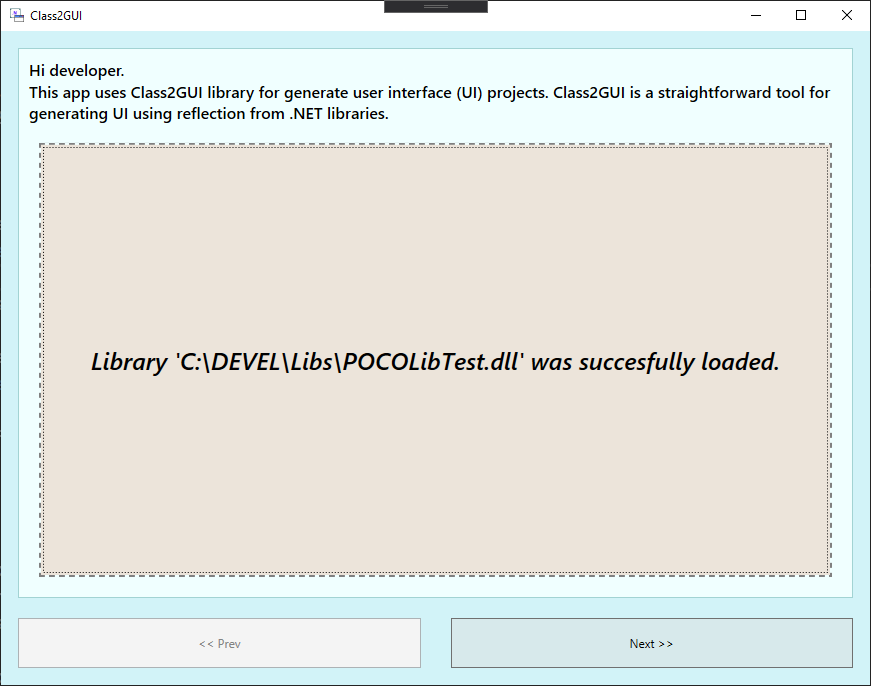
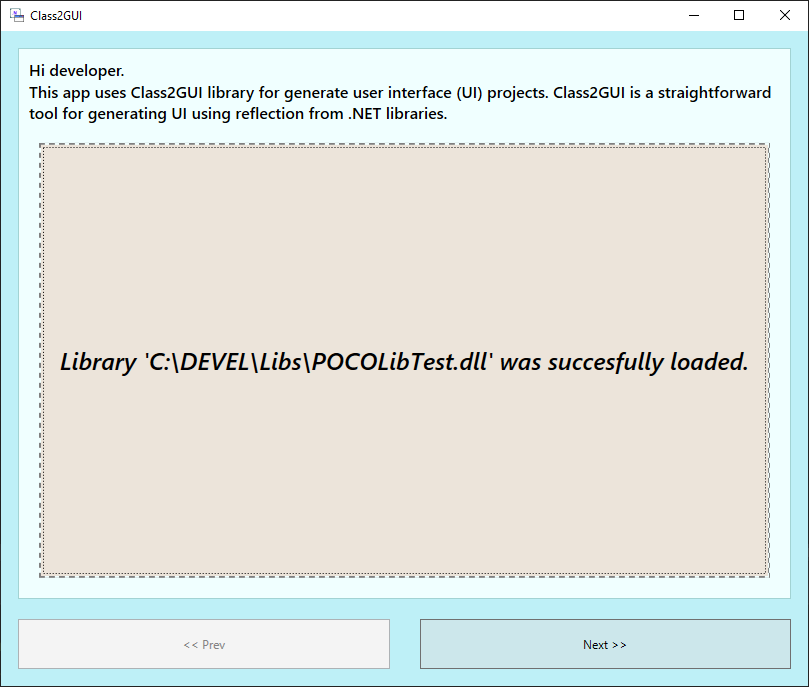
Update screenshots

diff --git a/Class2GUIApp/View/LoadClassUserControl.xaml b/Class2GUIApp/View/LoadClassUserControl.xaml
@@ -56,12 +56,13 @@
                     Background="#77DDDDDD"
                     BorderThickness="0"
                     Click="BtnLoadDll_Click"
-                    Content="{Binding InfoText}"
                     Cursor="Hand"
                     DockPanel.Dock="Bottom"
                     FontSize="24"
                     FontStyle="Italic"
-                    FontWeight="SemiBold" />
+                    FontWeight="SemiBold">
+                    <TextBlock Text="{Binding InfoText}" TextWrapping="Wrap" />
+                </Button>
             </DockPanel>
         </Border>
     </DockPanel>

diff --git a/Class2GUIApp/View/GenerateWPFUserControl.xaml b/Class2GUIApp/View/GenerateWPFUserControl.xaml
@@ -53,7 +53,8 @@
             Padding="5"
             FontStyle="Italic"
             IsEnabled="False"
-            Text="{Binding SelectedItem.Description, ElementName=CbGuiGenerators, Mode=OneWay}" />
+            Text="{Binding SelectedItem.Description, ElementName=CbGuiGenerators, Mode=OneWay}"
+            TextWrapping="Wrap" />
         <Label Grid.Row="3" Grid.Column="0">Output Directory:</Label>
 
         <TextBox

diff --git a/Class2GUIApp/MainWindow.xaml b/Class2GUIApp/MainWindow.xaml
@@ -8,7 +8,7 @@
     Title="Class2GUI"
     Width="1024"
     Height="800"
-    Background="#FFD2F3F8"
+    Background="#FFBEF0F7"
     Icon="ClassToWPF.ico"
     WindowStartupLocation="CenterScreen"
     mc:Ignorable="d">

diff --git a/Class2GUIApp/ViewModel/LoadClassViewModel.cs b/Class2GUIApp/ViewModel/LoadClassViewModel.cs
@@ -14,7 +14,7 @@ namespace Jpinsoft.Class2GUIApp.ViewModel
         {
         }
 
-        private string infoText = "Library is not Loaded. \nClick here for Load .NET DLL or Drag .NET DLL file to this Drop Zone.";
+        private string infoText = $"Library is not Loaded.{Environment.NewLine}Click here for Load .NET DLL or Drag .NET DLL file to this Drop Zone.";
 
         public string InfoText
         {
